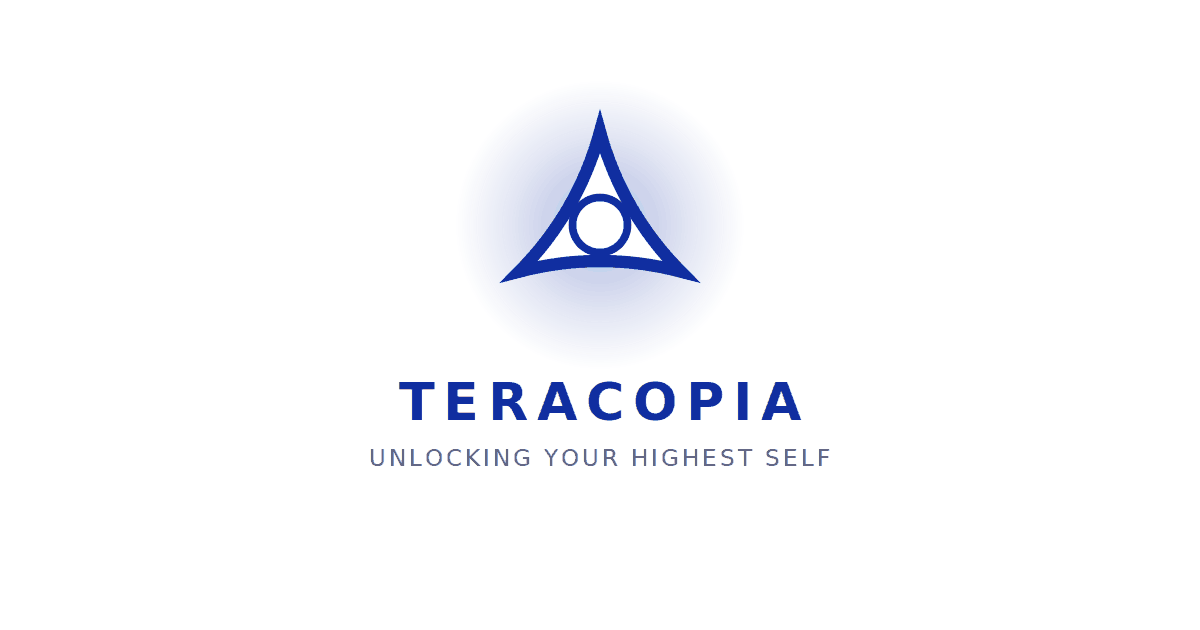
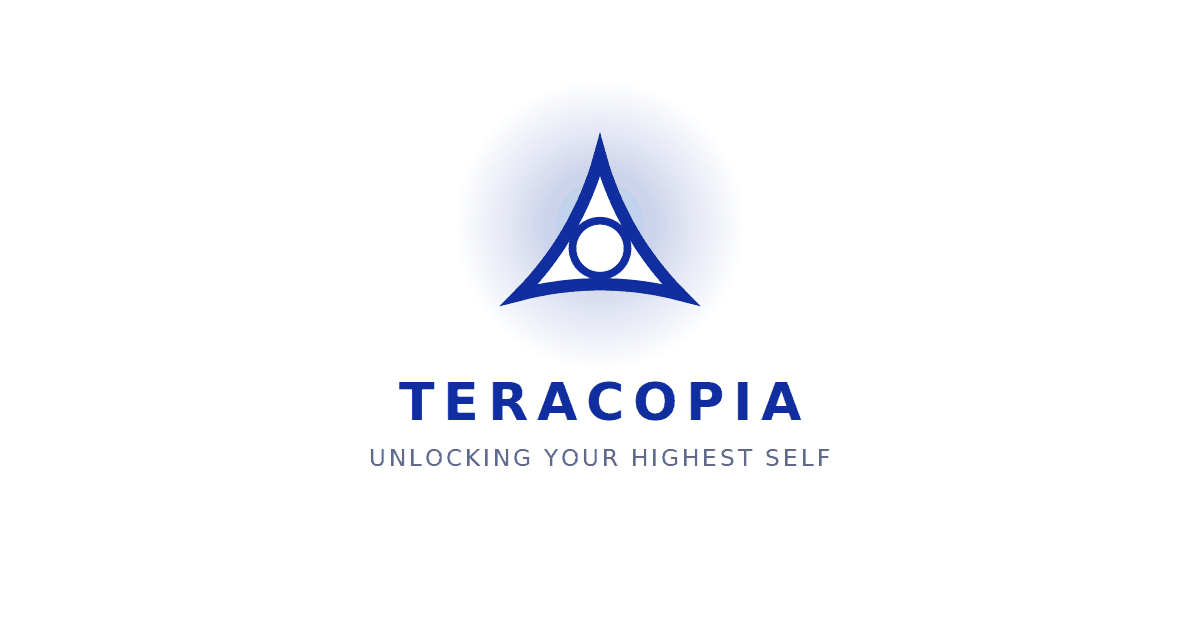
Recenter brand mark on its true visual centroid
The glow and viewBox were centered on an arbitrary design point
(80,80) rather than the mark's actual bounding-box center (80,65),
leaving noticeably more glow below the mark than above. Recentered
the homepage hero, all favicon sizes, and the Open Graph image on
the mark's real geometric center for equal halo margin on all sides.

Claude-Session: https://claude.ai/code/session_01XqCRE73cHTMSrtm1iPmbH4

Changed region(s): [[0.4008, 0.181, 0.5858, 0.4825]]

diff --git a/index.html b/index.html
@@ -50,7 +50,7 @@
   .hero-mark-svg { width: 245px; height: 245px; overflow: visible; }
 
   .hero-glow-circle {
-    transform-origin: 80px 80px;
+    transform-origin: 80px 65px;
     animation: mark-breathe 5.5s ease-in-out infinite;
   }
 
@@ -126,7 +126,7 @@
   </svg>
   <div class="content">
     <div class="hero-mark-wrap">
-      <svg class="hero-mark-svg" viewBox="-50 -50 260 260" xmlns="http://www.w3.org/2000/svg">
+      <svg class="hero-mark-svg" viewBox="-50 -65 260 260" xmlns="http://www.w3.org/2000/svg">
         <defs>
           <radialGradient id="heroGlow" cx="50%" cy="50%" r="50%">
             <stop offset="0%" stop-color="#102EA0" stop-opacity="0.351"/>
@@ -134,7 +134,7 @@
             <stop offset="72%" stop-color="#102EA0" stop-opacity="0"/>
           </radialGradient>
         </defs>
-        <circle class="hero-glow-circle" cx="80" cy="80" r="150" fill="url(#heroGlow)"/>
+        <circle class="hero-glow-circle" cx="80" cy="65" r="150" fill="url(#heroGlow)"/>
         <g class="hero-mark-shape">
           <path d="M 80,20 Q 94.3,71.8 132,110 Q 80,96.5 28,110 Q 65.7,71.8 80,20 Z"
             stroke="#102EA0" stroke-width="8" fill="#FFFFFF" stroke-linejoin="miter" stroke-linecap="butt"/>
